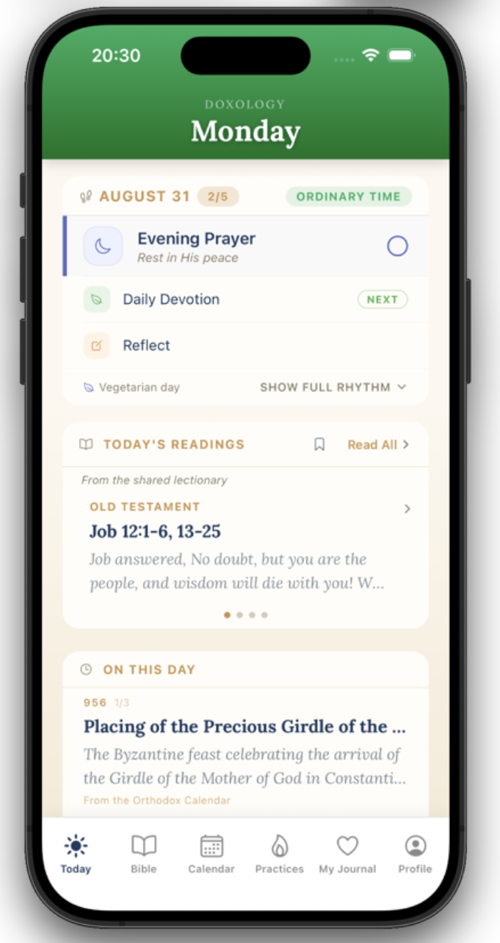
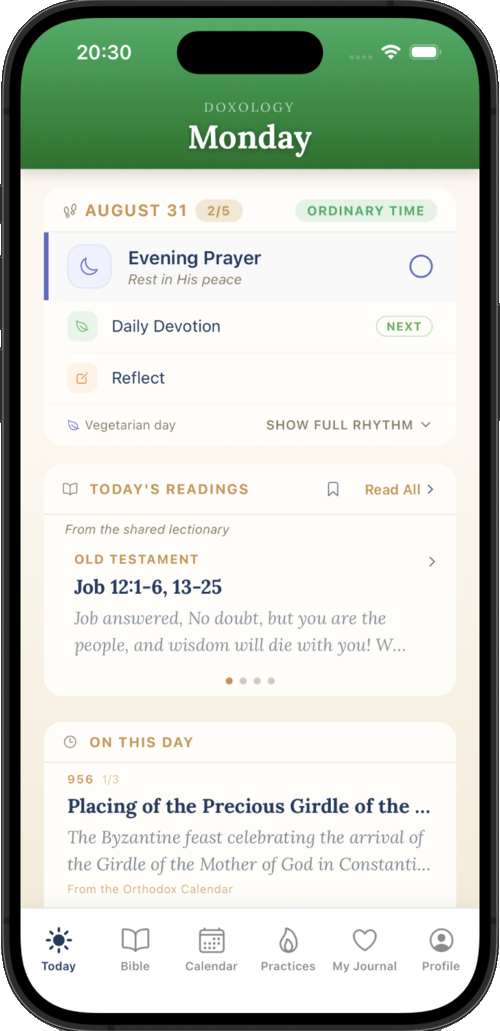
Tighten homepage phone preview crop

diff --git a/index.html b/index.html
@@ -5,7 +5,7 @@
     <meta name="viewport" content="width=device-width, initial-scale=1">
     <title>Doxology</title>
     <meta name="description" content="Doxology is a daily Christian prayer and scripture app built around morning, midday, and evening rhythms.">
-    <link rel="stylesheet" href="/styles.css?v=treated-phone-preview">
+    <link rel="stylesheet" href="/styles.css?v=tight-bezel-preview">
   </head>
   <body>
     <header class="site-header">
@@ -30,7 +30,7 @@
           </p>
         </div>
         <div class="simulator-showcase" aria-label="Doxology app screen preview">
-          <img class="simulator-preview" src="/assets/mockups/today-orthodox-phone.png?v=treated-phone-preview" alt="Doxology Today screen showing Orthodox calendar content, evening prayer progress, readings, and On This Day." />
+          <img class="simulator-preview" src="/assets/mockups/today-orthodox-phone.png?v=tight-bezel-preview" alt="Doxology Today screen showing Orthodox calendar content, evening prayer progress, readings, and On This Day." />
         </div>
       </section>
 
